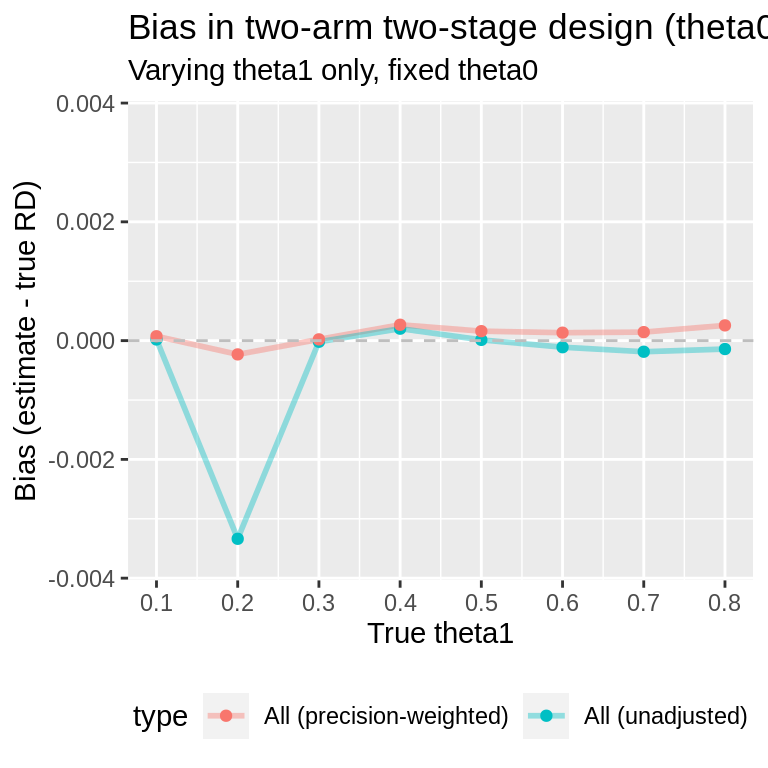
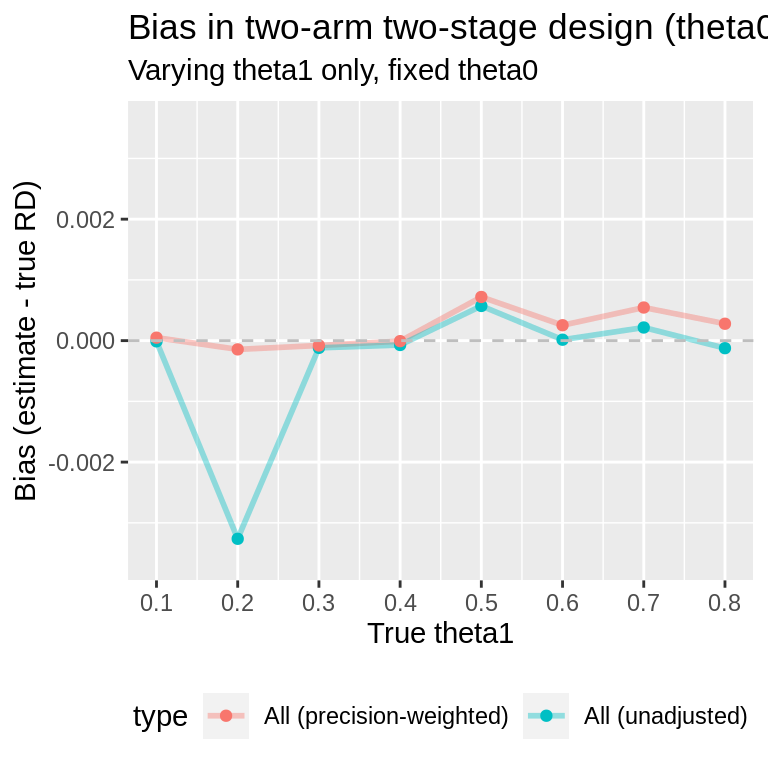
Built site for pwb: 0.0.0.9000@5353232

diff --git a/articles/GS.html b/articles/GS.html
@@ -102,10 +102,10 @@
                      nsims<span class="op">=</span><span class="va">nsims</span><span class="op">)</span>
   <span class="va">single.GS</span><span class="op">$</span><span class="va">ests</span><span class="op">[</span>, <span class="fl">1</span><span class="op">:</span><span class="fl">5</span><span class="op">]</span>
 <span class="co">#&gt;                          nsims    bias mean.SE emp.SE theta</span>
-<span class="co">#&gt; Stopped early            39246 -0.0452  0.0455 0.0274   0.5</span>
-<span class="co">#&gt; Complete                 60754  0.0246  0.0421 0.0300   0.5</span>
-<span class="co">#&gt; All                     100000 -0.0028  0.0435 0.0448   0.5</span>
-<span class="co">#&gt; All (precision-weghted) 100000 -0.0001  0.0433     NA   0.5</span>
+<span class="co">#&gt; Stopped early            39093 -0.0450  0.0455 0.0275   0.5</span>
+<span class="co">#&gt; Complete                 60907  0.0245  0.0421 0.0299   0.5</span>
+<span class="co">#&gt; All                     100000 -0.0027  0.0434 0.0446   0.5</span>
+<span class="co">#&gt; All (precision-weghted) 100000  0.0000  0.0433     NA   0.5</span>
   <span class="fu"><a href="https://rdrr.io/r/base/Round.html" class="external-link">round</a></span><span class="op">(</span><span class="va">single.GS</span><span class="op">$</span><span class="va">mc.error</span>, <span class="fl">5</span><span class="op">)</span>
 <span class="co">#&gt; [1] 0.00014 0.00010</span></code></pre></div>
 <p>How does bias compare when the true response probability is varied? Find results for a vector of true response probabilities:</p>

diff --git a/articles/MA_simon.html b/articles/MA_simon.html
@@ -113,7 +113,9 @@
                                     n.studies<span class="op">=</span><span class="fl">4</span><span class="op">)</span>
   <span class="op">}</span>
 
-<span class="va">ma.simon.results0</span> <span class="op">&lt;-</span> <span class="fu"><a href="https://rdrr.io/r/base/do.call.html" class="external-link">do.call</a></span><span class="op">(</span><span class="va">rbind</span>, <span class="va">ma.simon.results0</span><span class="op">)</span></code></pre></div>
+<span class="va">ma.simon.results0</span> <span class="op">&lt;-</span> <span class="fu"><a href="https://rdrr.io/r/base/do.call.html" class="external-link">do.call</a></span><span class="op">(</span><span class="va">rbind</span>, <span class="va">ma.simon.results0</span><span class="op">)</span>
+<span class="co">#ma.simon.results0$p0p1 &lt;- bquote(p[0]==0.5~","~p[1]==0.6)</span>
+<span class="va">ma.simon.results0</span><span class="op">$</span><span class="va">p0p1</span> <span class="op">&lt;-</span> <span class="st">"p0=0.5, p1=0.6"</span></code></pre></div>
 <p><img src="figures/simon_MA_p05-1.png" width="384"></p>
 <div class="section level3">
 <h3 id="moving-away-from-theta0-5">Moving away from theta=0.5<a class="anchor" aria-label="anchor" href="#moving-away-from-theta0-5"></a>
